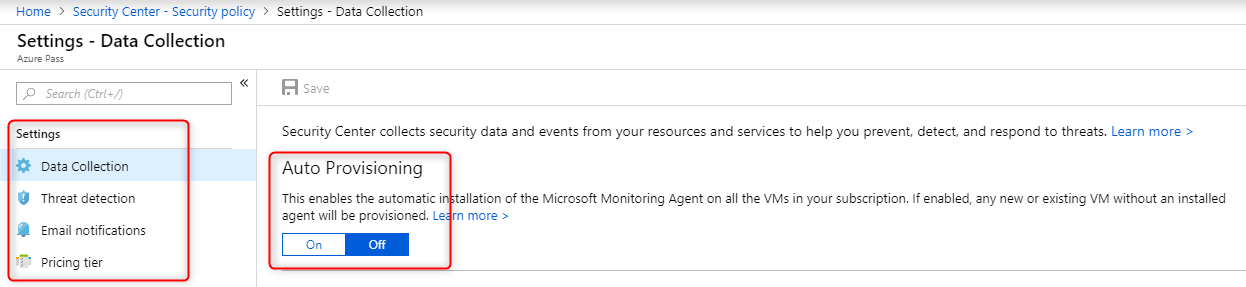
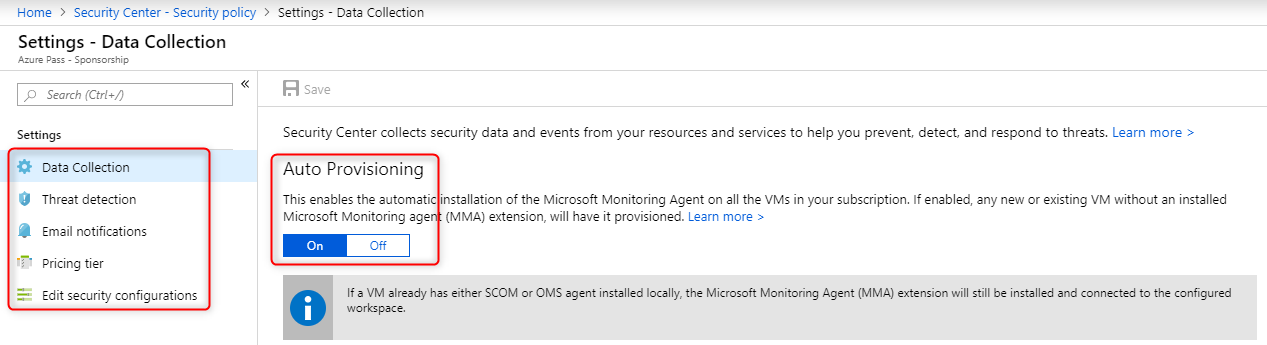
Update

Changed region(s): [[0.0, 0.0279, 1.0, 1.0]]

diff --git a/Labs/02 - Beginner Track/README.MD b/Labs/02 - Beginner Track/README.MD
@@ -38,13 +38,13 @@ This brings you to the ASC policy settings - which are Azure policies - where yo
 ![alt text](https://raw.githubusercontent.com/tianderturpijn/Azure-Security-Center/master/Labs/02%20-%20Beginner%20Track/Screenshots/policy_settings_parameters.png
 )<br><br>
 
-Scroll down to the bottom and click on **Assign** to save the Policy initiative.
+Scroll down to the bottom and click on **Assign** or **Save** to save (save only in case you have made updates) the Policy initiative.
 
 ### Edit Subscription settings (including Data Collection settings)
 1. Go back to the **Security Policy** blade and under **Policy Management** click on **Edit settings:**
 ![alt text](https://raw.githubusercontent.com/tianderturpijn/Azure-Security-Center/master/Labs/02%20-%20Beginner%20Track/Screenshots/subscription_settings.png
 )<br><br>
-2. Notice the 4 options:
+2. Notice the 5 options:
 ![alt text](https://raw.githubusercontent.com/tianderturpijn/Azure-Security-Center/master/Labs/02%20-%20Beginner%20Track/Screenshots/policy_setting3.png
 )<br>
 The Auto Provisioning settings - if set to On - will take care of automatic installation of the Microsoft Monitoring Agent (MMA) for all VM's in your subscription, either existing or new.<br><br>
